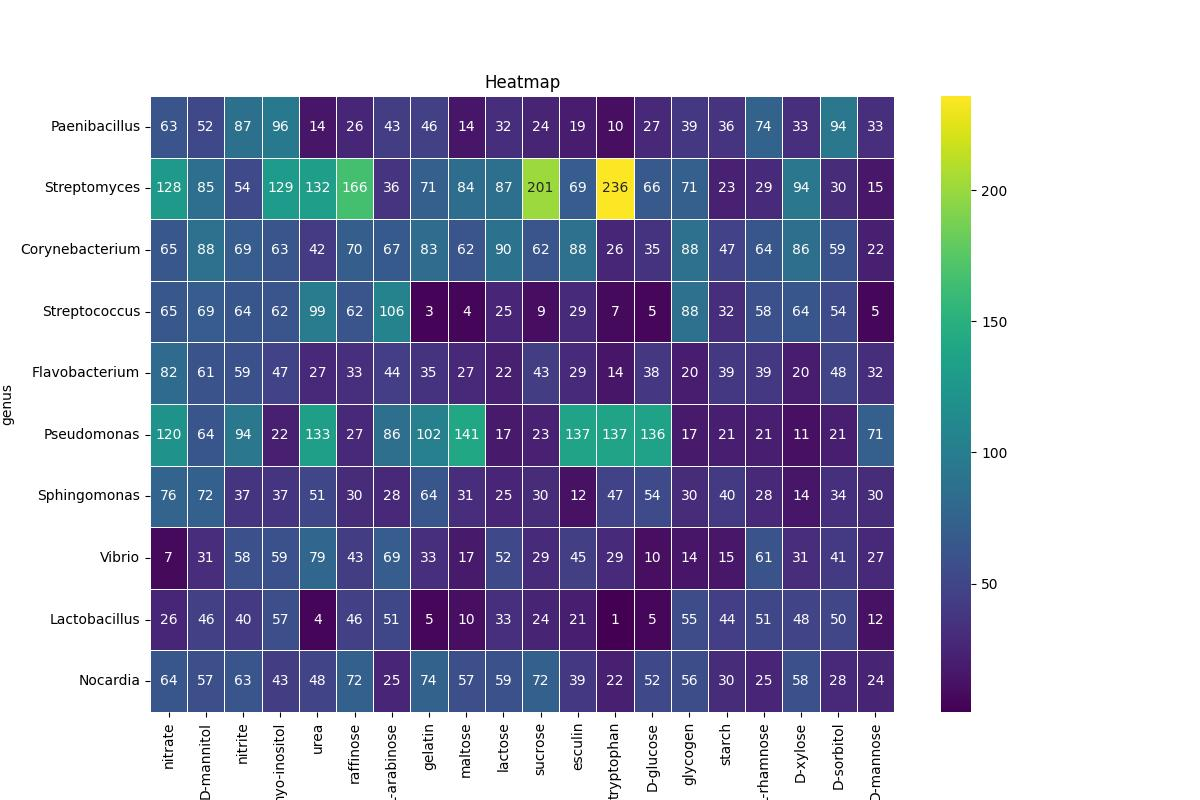
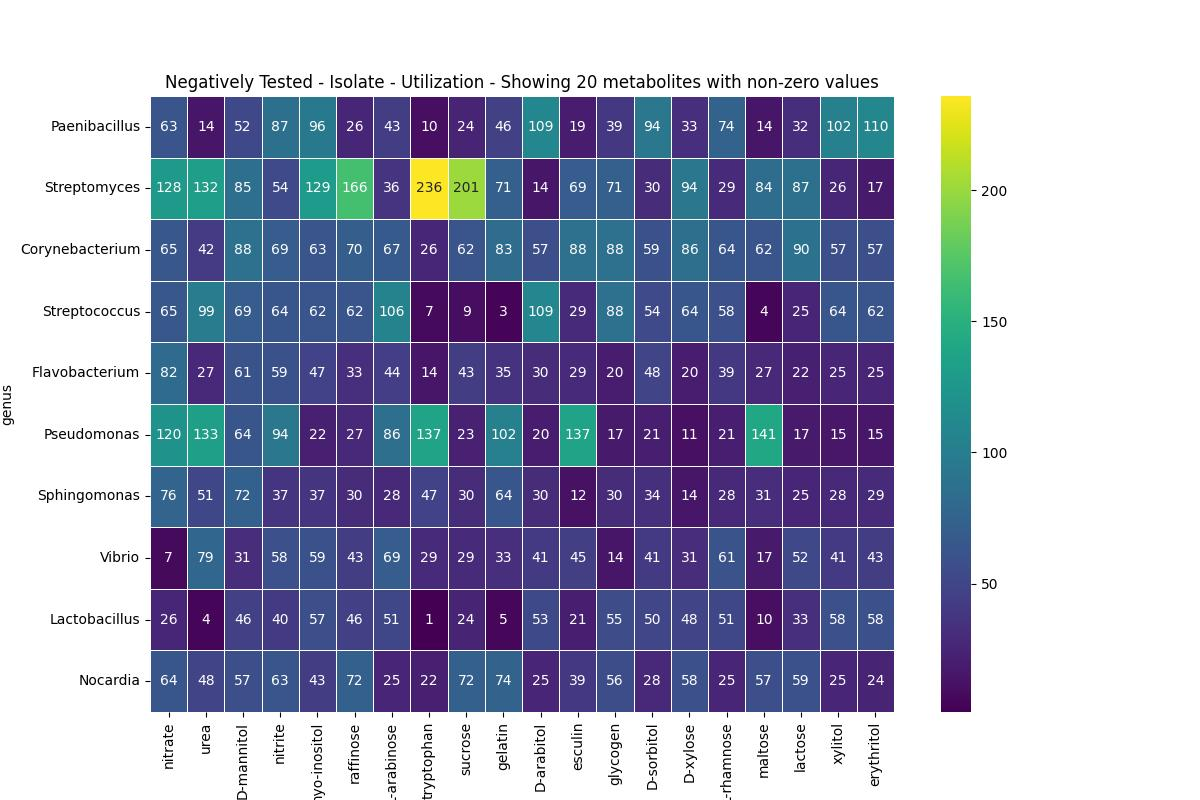
minor_remembering tab w refresh

Changed region(s): [[0.1233, 0.0938, 0.7708, 1.0], [0.1542, 0.9062, 0.2775, 1.0], [0.1542, 0.8125, 0.2467, 0.875]]

diff --git a/app.py b/app.py
@@ -6,9 +6,17 @@ import pandas as pd
 from tabs import general_overview, circos, trends, cards2, by_the_numbers, comparison, species_analysis
 from utils.data_loader import load_data
 
+# Define available tabs
+available_tabs = ["General Overview", "Circos", "Trends", "Cards", "By the Numbers", "Comparison", "Species Analysis"]
+
+# Get tab from query parameters (for persistence on refresh)
+query_params = st.query_params
+query_tab = query_params.get("tab", None)
+
 # Initialize session state for tab persistence
 if 'active_tab' not in st.session_state:
-    st.session_state.active_tab = "General Overview"
+    # Use query parameter if available, otherwise default to General Overview
+    st.session_state.active_tab = query_tab if query_tab in available_tabs else "General Overview"
 
 # Load CSV files from the data_files folder
 data_folder = "data_files"
@@ -17,18 +25,18 @@ data_frames = load_data(data_folder)
 if data_frames:
     st.sidebar.success("CSV files loaded successfully.")
 
-# Sidebar Navigation - use session state for default value
+# Sidebar Navigation
 st.sidebar.title("Navigation")
 tab = st.sidebar.radio(
     "Go to", 
-    ["General Overview", "Circos", "Trends", "Cards", "By the Numbers", "Comparison", "Species Analysis"],
-    index=["General Overview", "Circos", "Trends", "Cards", "By the Numbers", "Comparison", "Species Analysis"].index(st.session_state.active_tab),
-    key="tab_selector"
+    available_tabs,
+    index=available_tabs.index(st.session_state.active_tab)
 )
 
-# Update session state when tab changes
+# Update session state and query parameters when tab changes
 if tab != st.session_state.active_tab:
     st.session_state.active_tab = tab
+    st.query_params["tab"] = tab
 
 # Route to the correct tab
 if tab == "General Overview":
